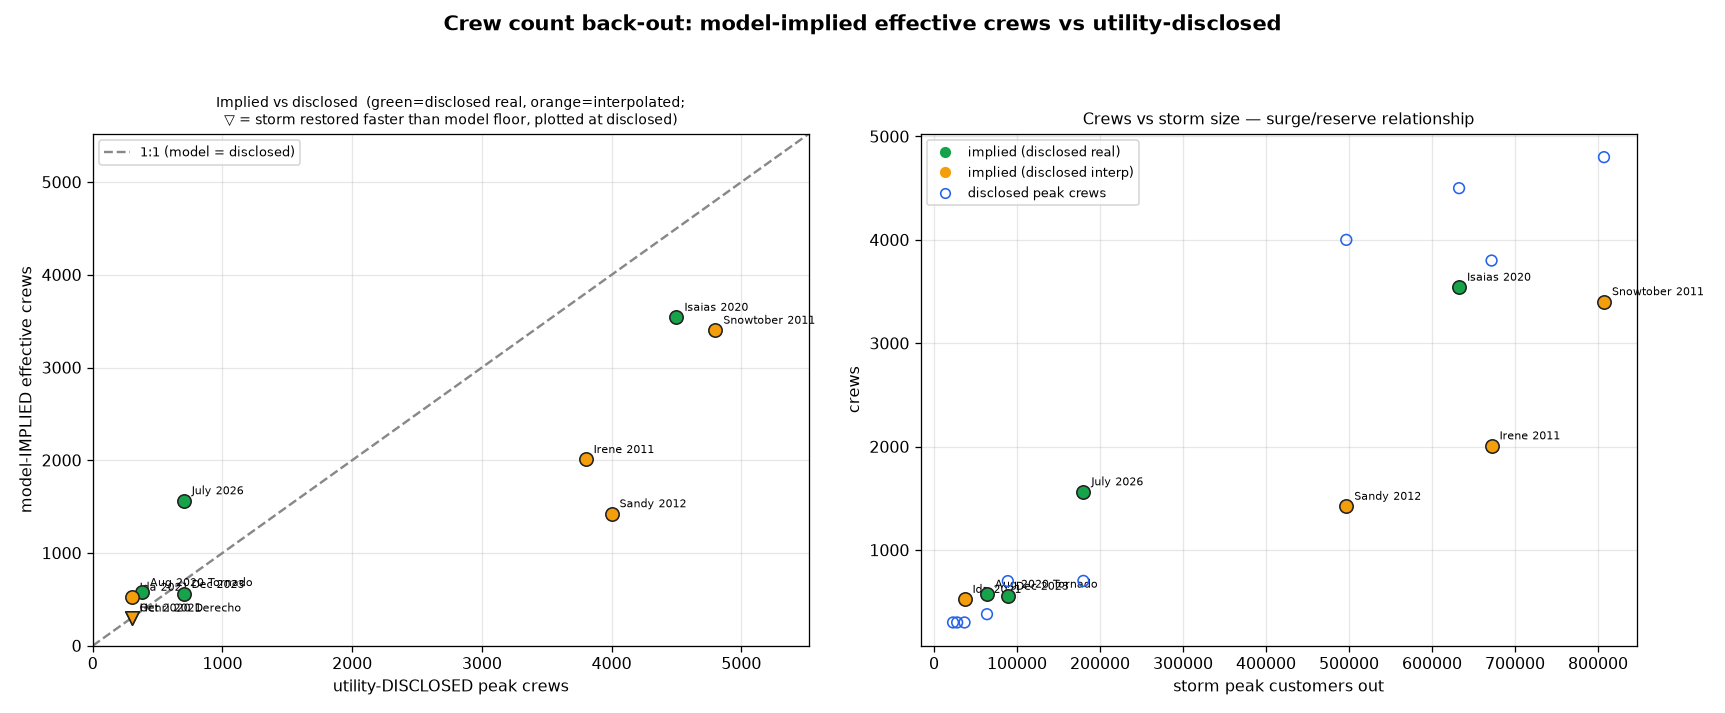
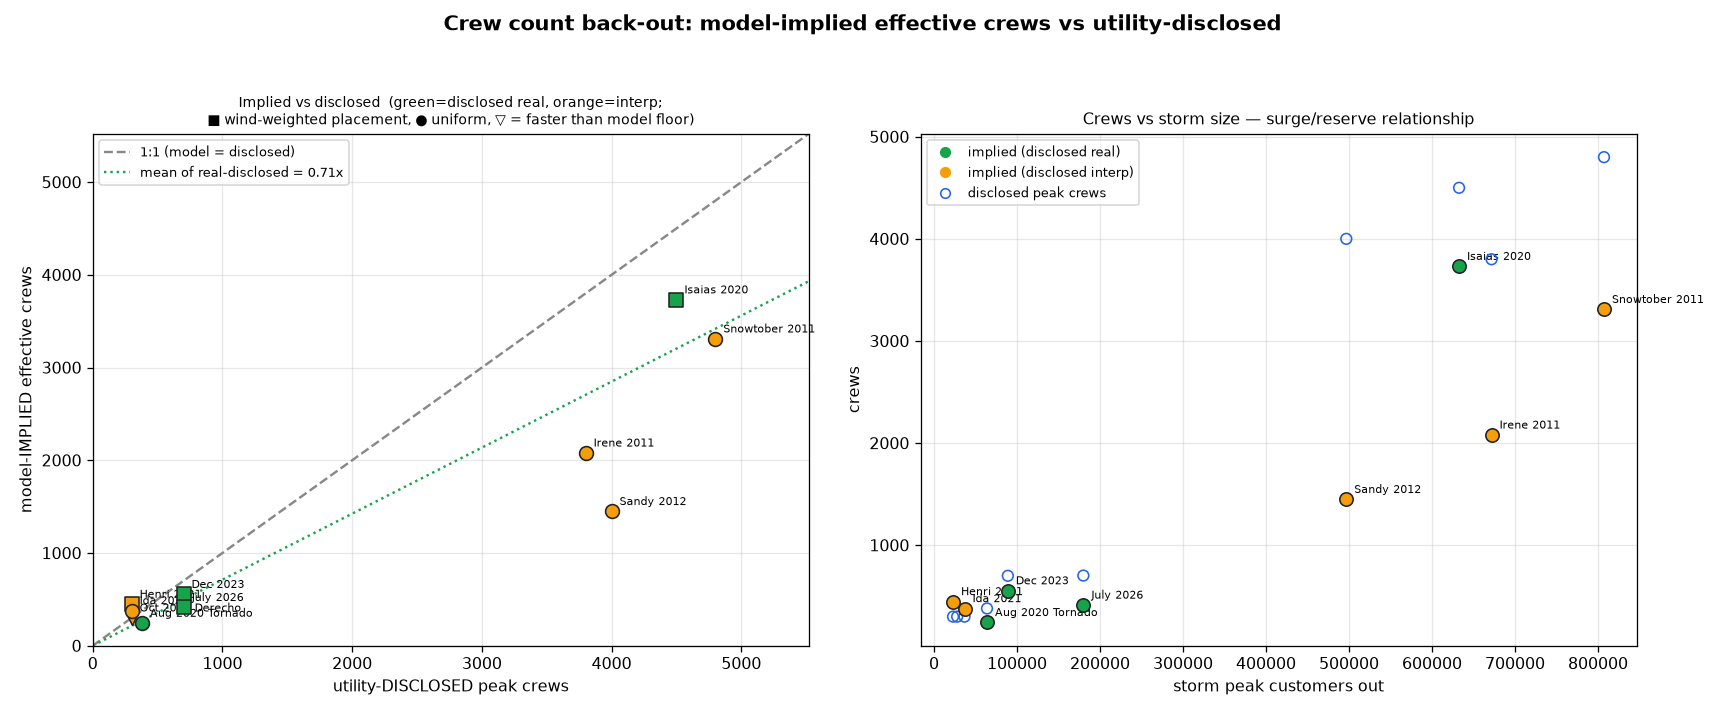
Crew back-out: wind-weighted placement + full calibration parity
Reran the crew back-out with the SAME model config the calibration uses,
so the implied crew counts are apples-to-apples (previously it used uniform
placement + default flags, which diverged badly for concentrated storms):

 - Wind-weighted (Gaussian) placement for the 5 storms with HRRR grids
   (Isaias, Oct 2020, Henri, Dec 2023, July 2026), reusing 20_'s validated
   placer; uniform for the pre-HRRR / synthetic-track ones (Sandy, Irene,
   Snowtober, Aug 2020, Ida).
 - The small-event assessment-delay scaling (was missing -> flat 12h).
 - The is_localized workload_mult skip for concentrated storms (July 2026,
   Aug 2020), via total_customers=0, matching the gate in the JS/server.

This fixes July 2026: model@702 crews now = 78h (matching the calibration's
81h; was a bogus 150h under uniform+workload_mult), and it backs out to 413
implied crews = 0.59x disclosed -- consistent with the calibration direction
and with the documented crew INEFFICIENCY of that storm (30h-stale forecast,
36-48h mobilization delay: they fielded 702 but got ~413-crews-worth of
restoration speed).

Headline: the four real-disclosed storms (Isaias 0.83, Dec 2023 0.79, Aug
2020 0.64, July 2026 0.59) imply on average 0.71x their disclosed crews --
i.e. disclosed crew counts run ~1.4x the model-equivalent line-restoration
crews (tree/assessment/support staff + mutual-aid inefficiency). Small
storms: Oct 2020 still hits the model floor (33h > real 28h), but with the
[…]

diff --git a/21_crew_backout.py b/21_crew_backout.py
@@ -35,21 +35,27 @@ DATA = HERE / "data"
 OUT_DIR = HERE / "output"
 
 # name, calibrated n_out, customer peak, real restoration hours, real-time
-# source, disclosed peak crews, disclosed-crew confidence.
+# source, disclosed peak crews, disclosed-crew confidence, HRRR wind key.
 #   time_src: "eaglei" (measured 15-min) | "pura" (regulatory) | "documented"
 #   crew_conf: "real" (utility/press disclosed) | "interp" (interpolated here)
+#   wind_key: HRRR grid key for wind-weighted placement, or None -> uniform
+#             (pre-HRRR storms 2011-2012, and the synthetic-track Aug 2020 /
+#             flooding Ida, have no gridded wind footprint).
+# is_localized: concentrated storms (severe-thunderstorm complex / tornado
+# confined to one corner) skip the large-scale workload_mult, matching the
+# calibration -- see gate in 03_grid_simulation.html / 07_server.py.
 STORMS = [
-    # label,            n_out, cust,   real_h, time_src,     crews, crew_conf
-    ("Isaias 2020",     20450, 632632, 199,   "eaglei",     4500,  "real"),
-    ("Sandy 2012",      15500, 496769, 264,   "pura",       4000,  "interp"),
-    ("Irene 2011",      21350, 671789, 288,   "pura",       3800,  "interp"),
-    ("Snowtober 2011",  26050, 807228, 264,   "pura",       4800,  "interp"),
-    ("Aug 2020 Tornado", 2050,  63912,  66,   "eaglei",      380,  "real"),
-    ("Oct 2020 Derecho",  950,  27943,  28,   "eaglei",      300,  "interp"),
-    ("Henri 2021",        830,  23000,  34,   "eaglei",      300,  "interp"),
-    ("Ida 2021",         1250,  36822,  51,   "eaglei",      300,  "interp"),
-    ("Dec 2023",         2850,  89000,  96,   "documented",  700,  "real"),
-    ("July 2026",        6000, 180000, 108,   "documented",  702,  "real"),
+    # label,            n_out, cust,   real_h, time_src,     crews, crew_conf, wind_key, is_localized
+    ("Isaias 2020",     20450, 632632, 199,   "eaglei",     4500,  "real",   "isaias_2020",     False),
+    ("Sandy 2012",      15500, 496769, 264,   "pura",       4000,  "interp", None,              False),
+    ("Irene 2011",      21350, 671789, 288,   "pura",       3800,  "interp", None,              False),
+    ("Snowtober 2011",  26050, 807228, 264,   "pura",       4800,  "interp", None,              False),
+    ("Aug 2020 Tornado", 2050,  63912,  66,   "eaglei",      380,  "real",   None,              True),
+    ("Oct 2020 Derecho",  950,  27943,  28,   "eaglei",      300,  "interp", "oct2020_derecho", False),
+    ("Henri 2021",        830,  23000,  34,   "eaglei",      300,  "interp", "henri_2021",      False),
+    ("Ida 2021",         1250,  36822,  51,   "eaglei",      300,  "interp", None,              False),
+    ("Dec 2023",         2850,  89000,  96,   "documented",  700,  "real",   "dec2023",         False),
+    ("July 2026",        6000, 180000, 108,   "documented",  702,  "real",   "july2026",        True),
 ]
 
 CREW_LO, CREW_HI = 8, 12000       # binary-search bounds
@@ -60,6 +66,13 @@ def load_land_polygon():
     from shapely.geometry import shape
     lb = json.loads((DATA / "connecticut_land_boundary.json").read_text())
     return shape(lb[0]["geojson"])
+
+
+def _import_placer():
+    """Reuse 20_ensemble_vs_actual's validated wind-weighted placement +
+    wind loader (module name starts with a digit -> import via importlib)."""
+    import importlib
+    return importlib.import_module("20_ensemble_vs_actual")
 
 
 def uniform_ct_points(n, land_poly, rng):
@@ -78,30 +91,59 @@ def uniform_ct_points(n, land_poly, rng):
     return pts
 
 
-def model_time(outages, m_crews, total_customers):
-    """Median model restoration time (busy-crew completion) over N_SEED seeds."""
+def place_points(wind_key, n, land_poly, rng, placer, wind_cache):
+    """Wind-weighted (Gaussian transfer) placement when the storm has an HRRR
+    grid; uniform otherwise. Returns (points, placement_label)."""
+    if wind_key is None:
+        return [(la, lo) for (la, lo) in uniform_ct_points(n, land_poly, rng)], "uniform"
+    if wind_key not in wind_cache:
+        lats, lons, wind, _rain, _s = placer.load_wind(wind_key)
+        wind_cache[wind_key] = (lats, lons, wind)
+    lats, lons, wind = wind_cache[wind_key]
+    pts = placer.place_outages(lats, lons, wind, land_poly, n, "gaussian", rng)
+    return [(la, lo) for (la, lo, _w) in pts], "wind"
+
+
+def _scaled_assessment(base, cust):
+    """Small-event assessment scaling, identical to 07_server._scaled_assessment
+    and the JS scheduler -- so the back-out uses the SAME model config the
+    calibration did."""
+    if base <= 0 or cust <= 0 or cust >= 60000:
+        return base
+    return max(4.0, min(base, base * (cust / 60000.0) ** 0.4))
+
+
+def model_time(outages, m_crews, real_cust, is_localized):
+    """Median model restoration time (busy-crew completion) over N_SEED seeds,
+    replicating the server/JS config: size-scaled assessment delay, overnight
+    ops below 70k customers, and (for is_localized concentrated storms) the
+    workload_mult skip via total_customers=0."""
     from scheduler_numba import plan_restoration_numba
-    per = max(1.0, total_customers / len(outages))
+    per = max(1.0, real_cust / len(outages))
     customers = [per] * len(outages)
+    assess = _scaled_assessment(12.0, real_cust)
+    overnight = 0 < real_cust <= 70000
+    tc_arg = 0.0 if is_localized else float(real_cust)   # is_localized -> workload_mult=1
     ts = []
     for s in range(N_SEED):
         _crews, total, _tl = plan_restoration_numba(
             outages, m_crews, realistic=True, seed=42 + s * 137,
-            customers=customers, total_customers=total_customers,
+            customers=customers, total_customers=tc_arg,
+            assessment_delay=assess, overnight_ops=overnight,
         )
         ts.append(total)
     return float(np.median(ts))
 
 
-def backout_crews(outages, real_h, total_customers):
+def backout_crews(outages, real_h, real_cust, is_localized):
     """Binary-search the constant crew count whose model restoration time
     matches real_h. Returns (implied_crews, model_time_at_that_M, floor_h).
     floor_h = model time at CREW_HI (the fastest the model can go); if
     real_h < floor_h the storm restored faster than the model can achieve at
     any crew count (the assessment/overnight/travel floor is the bottleneck,
     not crews) -> implied crews is reported as '>CREW_HI'."""
-    t_hi = model_time(outages, CREW_HI, total_customers)   # fastest possible
-    t_lo = model_time(outages, CREW_LO, total_customers)   # slowest
+    t_hi = model_time(outages, CREW_HI, real_cust, is_localized)   # fastest possible
+    t_lo = model_time(outages, CREW_LO, real_cust, is_localized)   # slowest
     if real_h <= t_hi:
         return None, t_hi, t_hi          # unreachable: below the model floor
     if real_h >= t_lo:
@@ -109,28 +151,30 @@ def backout_crews(outages, real_h, total_customers):
     lo, hi = CREW_LO, CREW_HI
     while hi - lo > max(5, int(0.02 * lo)):
         mid = (lo + hi) // 2
-        t = model_time(outages, mid, total_customers)
+        t = model_time(outages, mid, real_cust, is_localized)
         if t > real_h:       # too slow -> need more crews
             lo = mid
         else:                # fast enough -> can use fewer
             hi = mid
     m = (lo + hi) // 2
-    return m, model_time(outages, m, total_customers), t_hi
+    return m, model_time(outages, m, real_cust, is_localized), t_hi
 
 
 def main():
     land = load_land_polygon()
     rng = np.random.default_rng(7)
+    placer = _import_placer()
+    wind_cache = {}
 
     rows = []
-    print(f"{'Storm':<17}{'cust':>8}{'realH':>6}{'src':>5}"
+    print(f"{'Storm':<17}{'cust':>8}{'realH':>6}{'src':>5}{'place':>6}"
           f"{'model@disc':>11}{'implied':>9}{'disc':>6}{'conf':>7}{'impl/disc':>10}")
-    for label, n_out, cust, real_h, tsrc, disc, cconf in STORMS:
-        pts = uniform_ct_points(n_out, land, rng)
+    for label, n_out, cust, real_h, tsrc, disc, cconf, wind_key, is_loc in STORMS:
+        pts, place_lbl = place_points(wind_key, n_out, land, rng, placer, wind_cache)
         # Raw model accuracy: what the model predicts at the DISCLOSED crew
         # count, next to the real time -- makes the inversion interpretable.
-        t_disc = model_time(pts, disc, cust)
-        implied, t_at, floor_h = backout_crews(pts, real_h, cust)
+        t_disc = model_time(pts, disc, cust, is_loc)
+        implied, t_at, floor_h = backout_crews(pts, real_h, cust, is_loc)
         if implied is None:
             ratio_s = "n/a(floor)"
             impl_s = f">{CREW_HI}"
@@ -139,12 +183,12 @@ def main():
             impl_val = implied
             impl_s = f"{implied}"
             ratio_s = f"{implied/disc:.2f}"
-        print(f"{label:<17}{cust:>8}{real_h:>6}{tsrc[:4]:>5}"
+        print(f"{label:<17}{cust:>8}{real_h:>6}{tsrc[:4]:>5}{place_lbl:>6}"
               f"{t_disc:>10.0f}h{impl_s:>9}{disc:>6}{cconf:>7}{ratio_s:>10}"
               + (f"  [floor {floor_h:.0f}h > real {real_h}h]" if implied is None else ""))
         rows.append(dict(label=label, cust=cust, real_h=real_h, tsrc=tsrc,
-                         t_disc=t_disc, implied=impl_val, disc=disc,
-                         cconf=cconf, floor_h=floor_h))
+                         place=place_lbl, t_disc=t_disc, implied=impl_val,
+                         disc=disc, cconf=cconf, floor_h=floor_h))
 
     make_plot(rows)
 
@@ -159,22 +203,32 @@ def make_plot(rows):
                  fontsize=13, weight="bold")
 
     ok = [r for r in rows if not np.isnan(r["implied"])]
-    # Left: implied vs disclosed, 1:1 line. Color by disclosed-crew confidence.
+    # Left: implied vs disclosed, 1:1 line. Color = disclosed-crew confidence,
+    # marker = placement (square=wind-weighted, circle=uniform), triangle=floor.
     for r in rows:
         color = "#16a34a" if r["cconf"] == "real" else "#f59e0b"
-        marker = "o" if not np.isnan(r["implied"]) else "v"
+        if np.isnan(r["implied"]):
+            marker = "v"
+        else:
+            marker = "s" if r["place"] == "wind" else "o"
         y = r["implied"] if not np.isnan(r["implied"]) else r["disc"]
-        axL.scatter(r["disc"], y, s=70, color=color, marker=marker,
+        axL.scatter(r["disc"], y, s=75, color=color, marker=marker,
                     edgecolor="#222", zorder=5)
         axL.annotate(r["label"], (r["disc"], y), fontsize=7,
                      xytext=(5, 4), textcoords="offset points")
     mx = max(max(r["disc"] for r in rows),
              max(r["implied"] for r in ok)) * 1.15
     axL.plot([0, mx], [0, mx], ls="--", color="#888", label="1:1 (model = disclosed)")
+    # 0.71 mean for the real-disclosed storms
+    real_ratios = [r["implied"]/r["disc"] for r in ok if r["cconf"] == "real"]
+    if real_ratios:
+        rbar = np.mean(real_ratios)
+        axL.plot([0, mx], [0, rbar*mx], ls=":", color="#16a34a",
+                 label=f"mean of real-disclosed = {rbar:.2f}x")
     axL.set_xlabel("utility-DISCLOSED peak crews")
     axL.set_ylabel("model-IMPLIED effective crews")
-    axL.set_title("Implied vs disclosed  (green=disclosed real, orange=interpolated;\n"
-                  "▽ = storm restored faster than model floor, plotted at disclosed)",
+    axL.set_title("Implied vs disclosed  (green=disclosed real, orange=interp;\n"
+                  "■ wind-weighted placement, ● uniform, ▽ = faster than model floor)",
                   fontsize=9)
     axL.legend(fontsize=8); axL.grid(alpha=0.3)
     axL.set_xlim(0, mx); axL.set_ylim(0, mx)